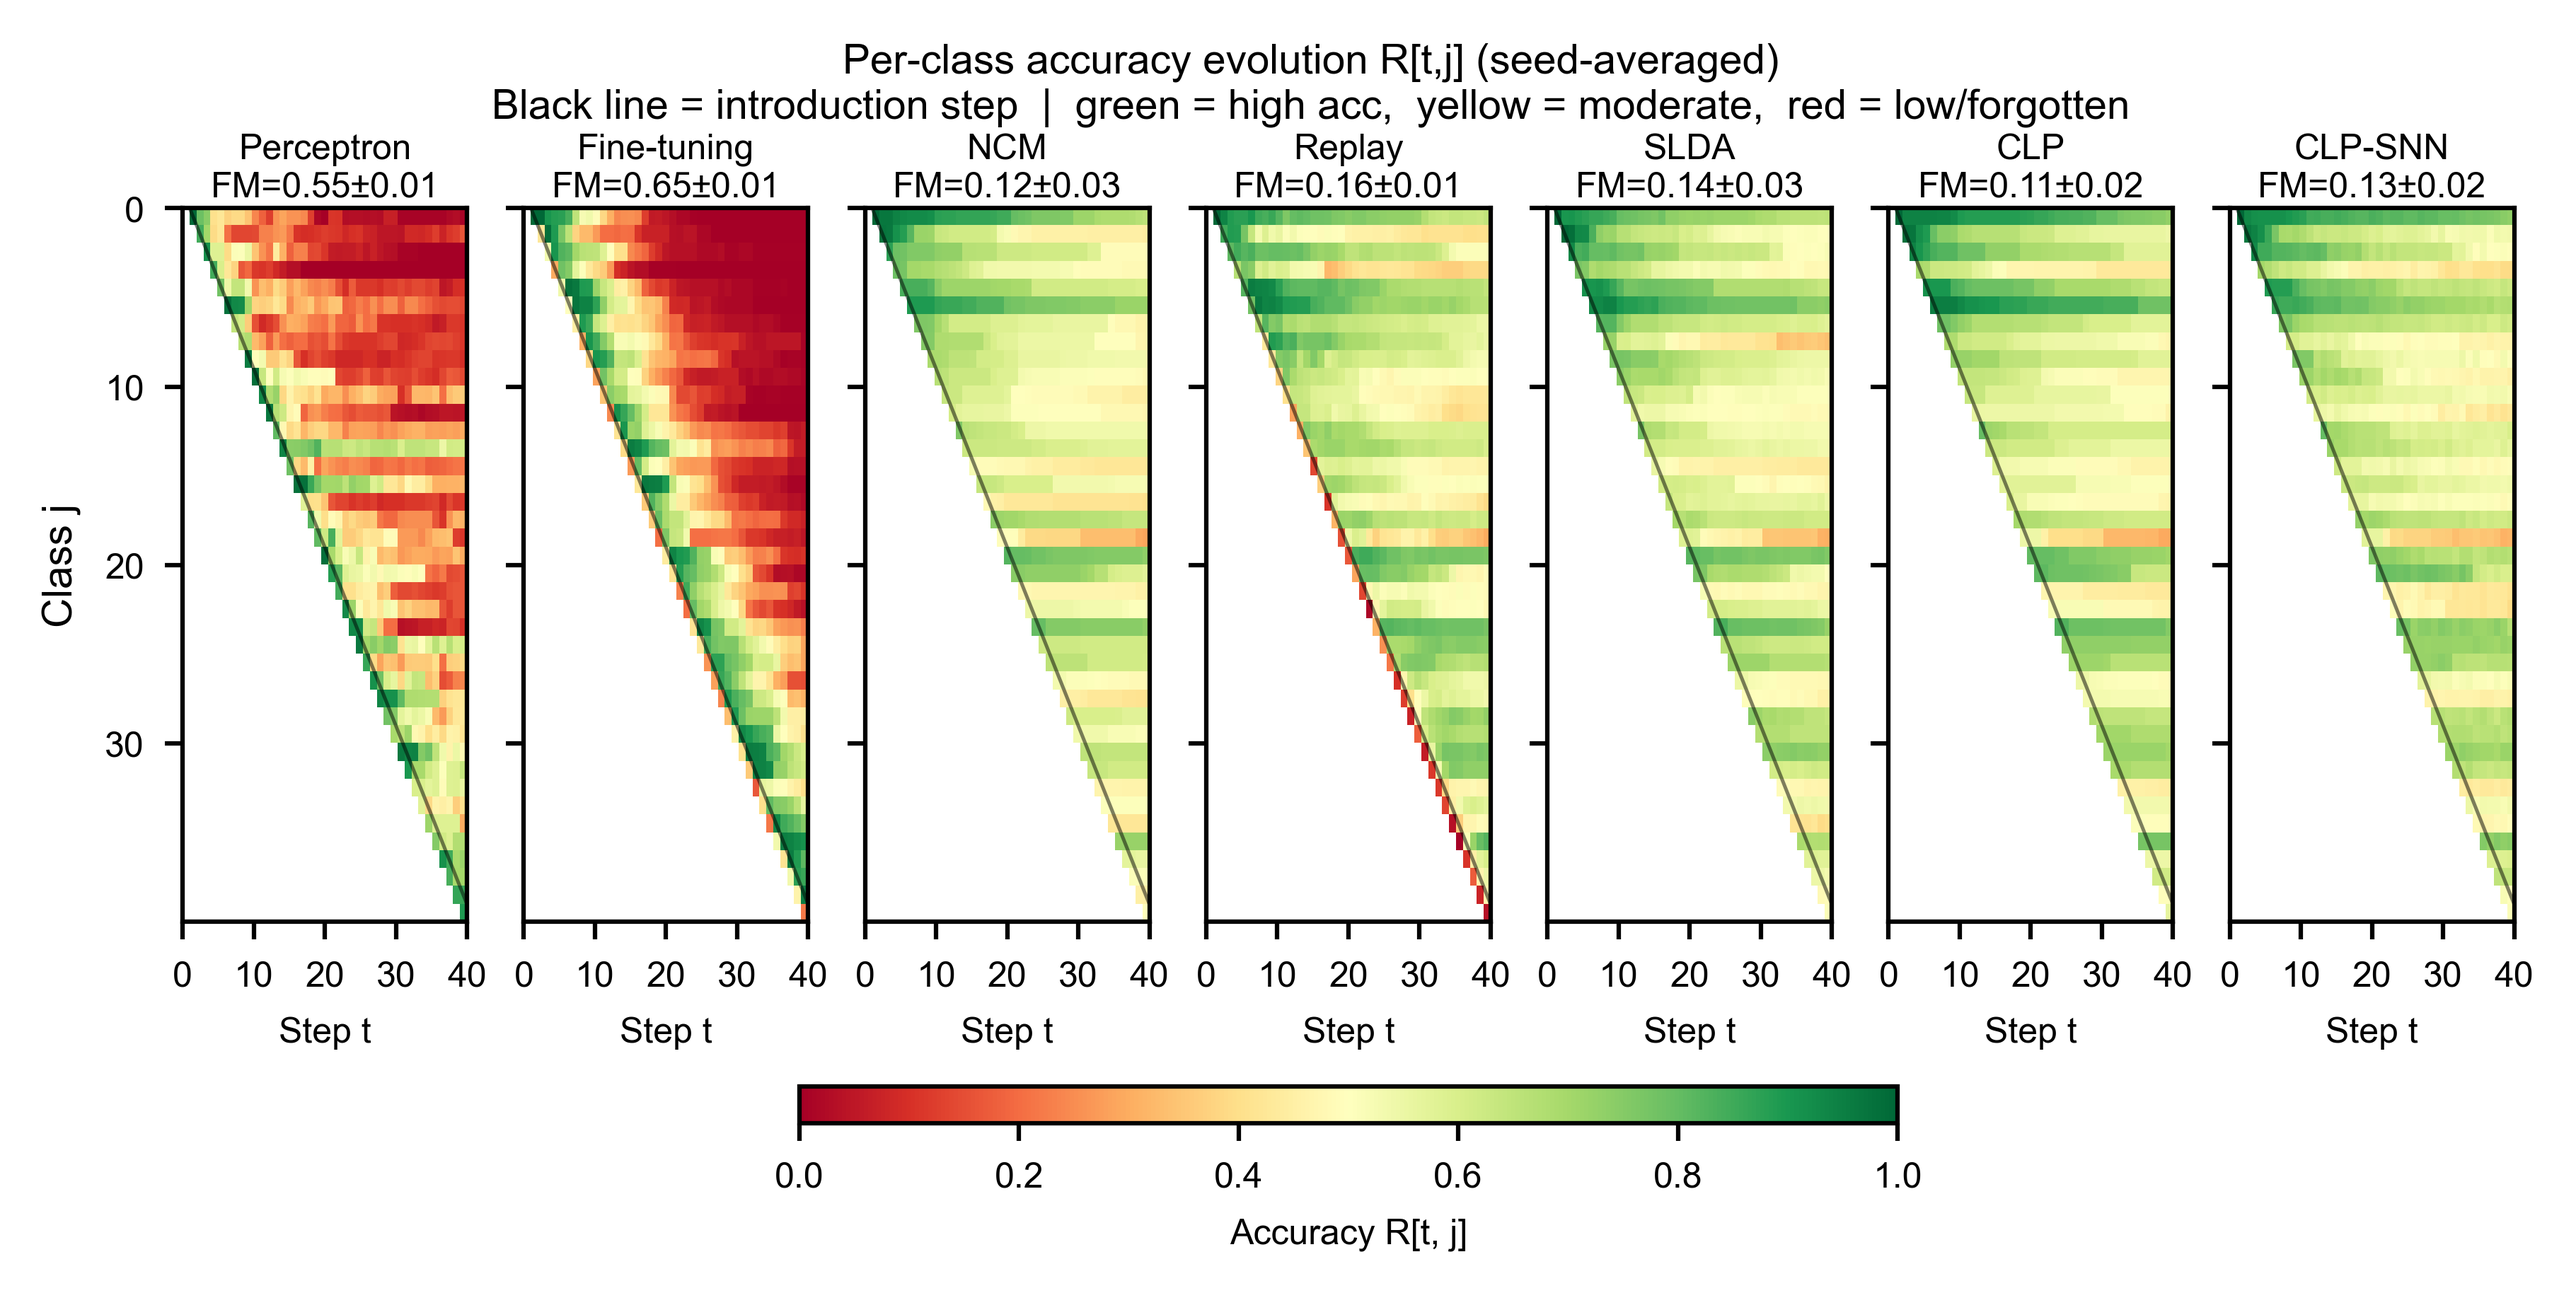
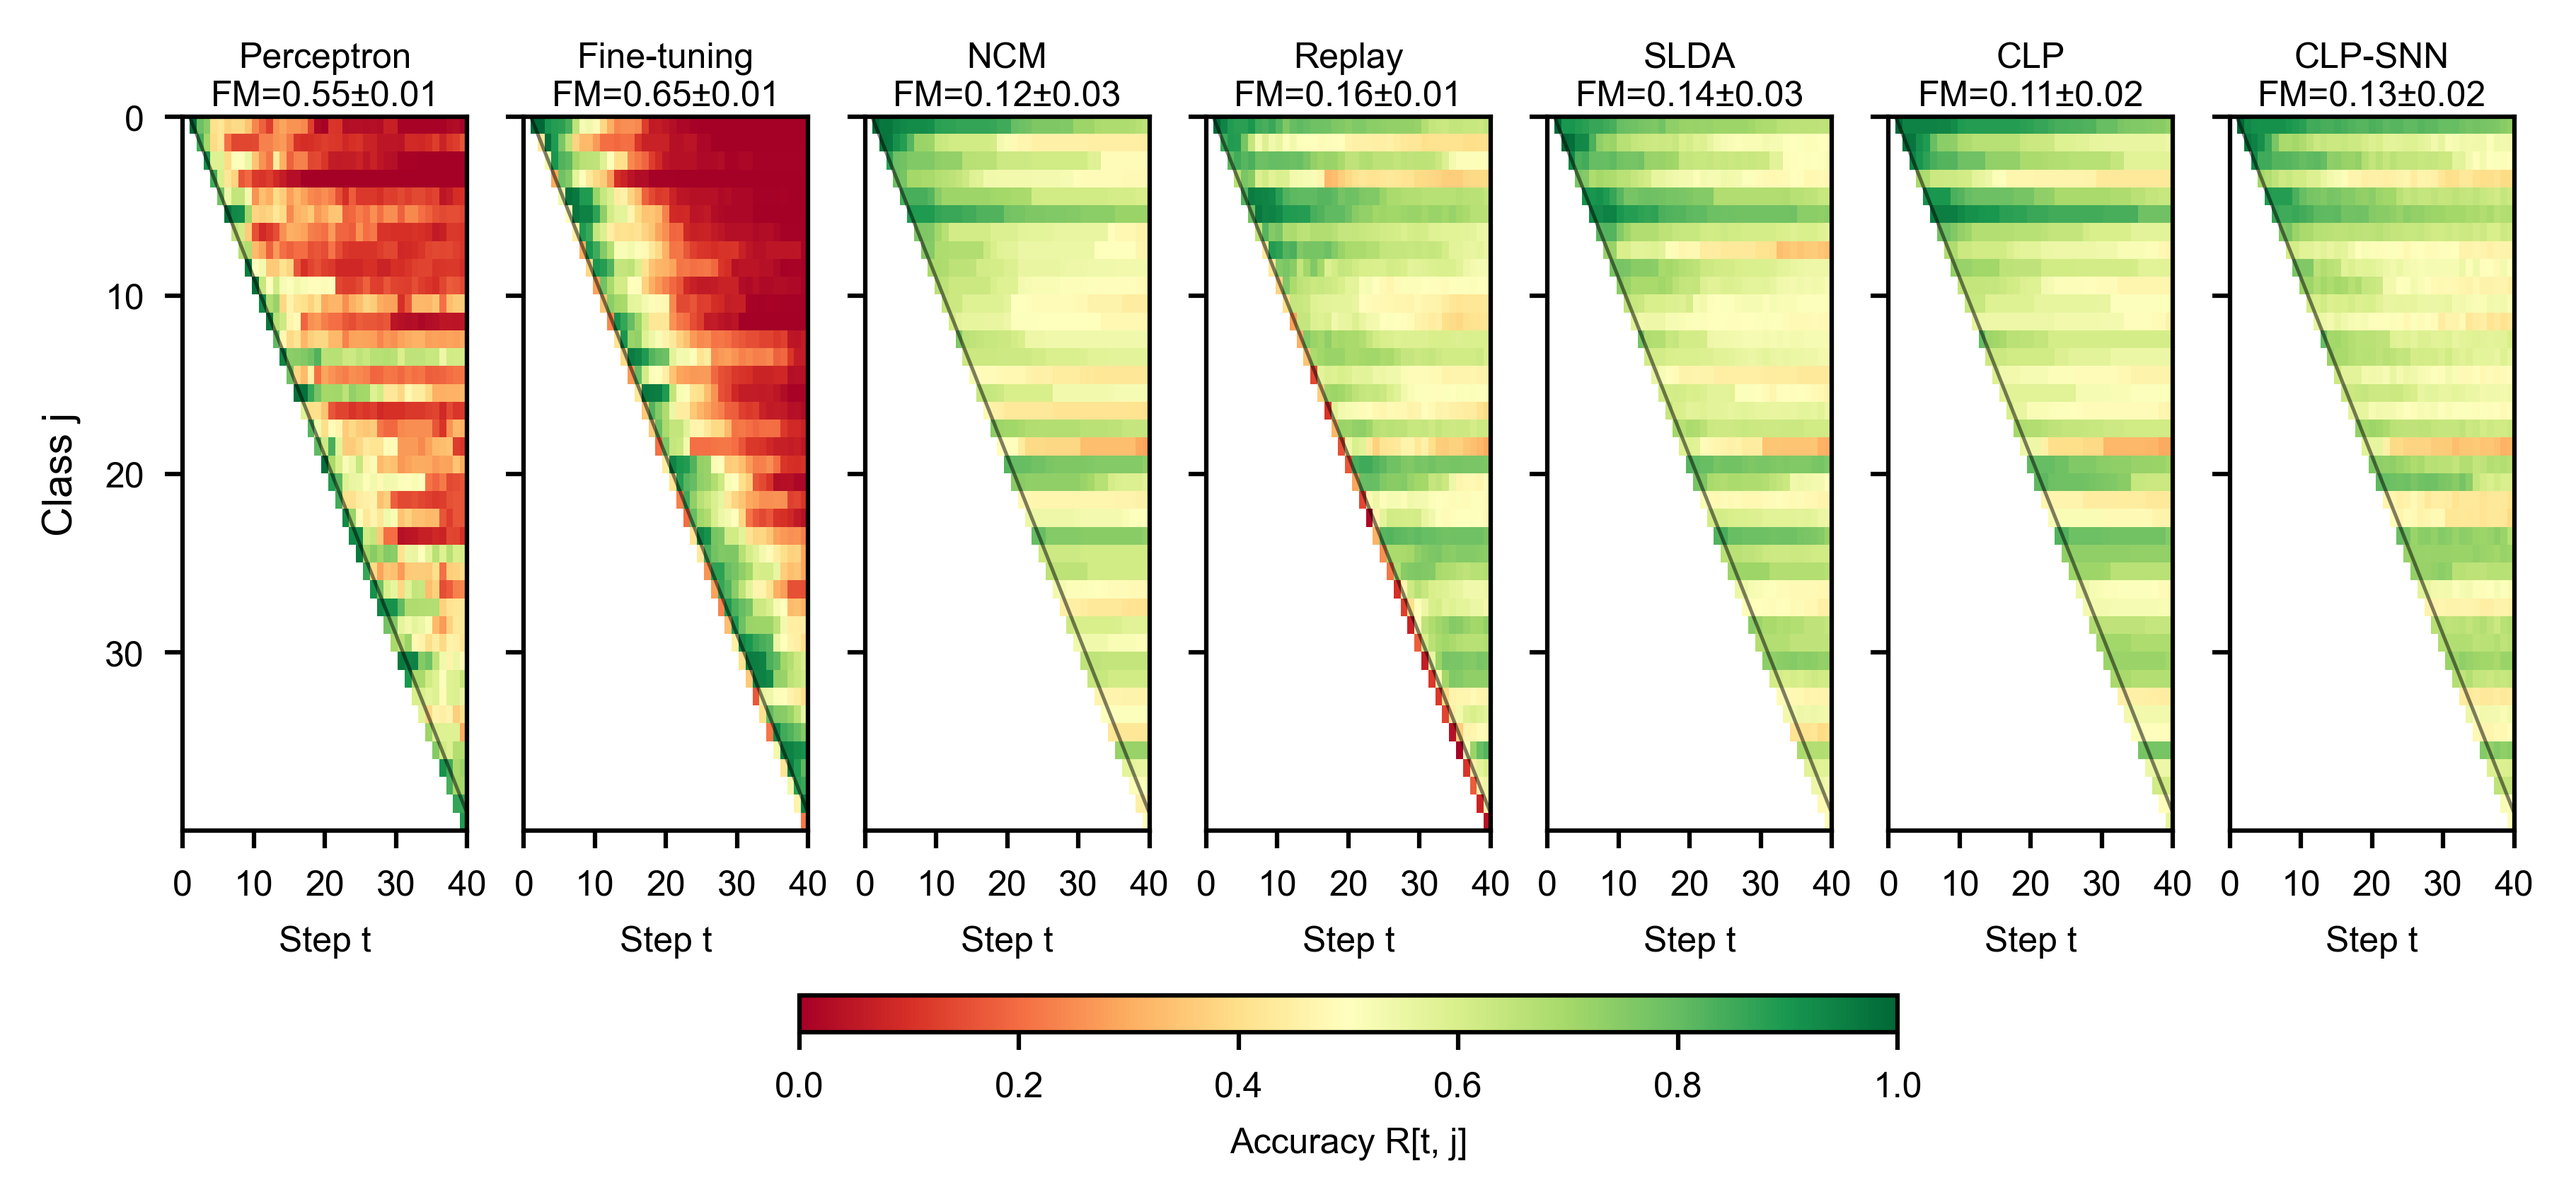
Figures for submission: Fig. 3a-b in percent, Figs. 4 and S2-S3 without suptitles, Fig. S5 cleanup
- accuracy_panels.py: accuracy in % (as Fig. 3c-e), sentence-case axis labels
- forgetting_experiments_1shot.py: Fig. 4 heatmap without the explanatory suptitle
- self_norm_analysis.py: no code-parameter suptitle; OpenLORIS spelling
- sigma_sensitivity_analysis.py: the cluster seeds used hash(sigma_label) % 100, which Python
  randomises per process; fixed offsets {23, 70, 8, 5} reproduce the published Fig. S3 curve
  for curve. No suptitle; output to images/.
- slda_regularization_equivalence.py: percent axes, bold panel letters, Reference / Rank-one
  legends placed clear of the curves
All replotted from cached or deterministic results; plotted values unchanged.

diff --git a/experiments/slda_regularization_equivalence.py b/experiments/slda_regularization_equivalence.py
@@ -197,6 +197,10 @@ def run_25shot(clf, X_tr, y_tr, checkpoints, X_test, y_test):
 
 # ── Supplementary panel ───────────────────────────────────────────────────────
 
+# Legend names as in the Supplementary Fig. S5 caption
+MODEL_LABELS = {"Hayes-SLDA": "Reference", "RankOne-SLDA": "Rank-one"}
+
+
 def draw_panel(lams, accs_, best_lambda, curves, protocols, models, images_dir):
     """Panel (a): lambda sweep on the held-out order; (b), (c): accuracy
     trajectories of both parameterizations under the paper protocols."""
@@ -205,18 +209,19 @@ def draw_panel(lams, accs_, best_lambda, curves, protocols, models, images_dir):
     axes = np.atleast_1d(axes)
 
     ax = axes[0]
+    accs_ = [a * 100 for a in accs_]  # percent, as in the caption and Table 1
     ax.semilogx(lams, accs_, "o-", color="tab:blue", markersize=3)
     ax.axvline(best_lambda, color="tab:red", linestyle=":", linewidth=0.75)
     # Fixed 10-pp window: the sweep spans ~0.2 pp, and an auto-scaled axis
     # would inflate that into an apparent trend.
-    centre = round(float(np.mean(accs_)), 2)
-    ax.set_ylim(centre - 0.05, centre + 0.05)
-    spread_pp = (max(accs_) - min(accs_)) * 100
+    centre = round(float(np.mean(accs_)))
+    ax.set_ylim(centre - 5, centre + 5)
+    spread_pp = max(accs_) - min(accs_)
     ax.text(0.03, 0.95, f"spread {spread_pp:.1f} pp", transform=ax.transAxes,
             ha="left", va="top")
     ax.set_xlabel(r"ridge $\lambda$")
-    ax.set_ylabel("Final accuracy (held-out order)")
-    ax.set_title("(a) $\\lambda$ selection")
+    ax.set_ylabel("Final accuracy (%)")
+    ax.set_title("$\\lambda$ selection (held-out order)")
 
     for k, protocol in enumerate(protocols):
         ax = axes[1 + k]
@@ -224,18 +229,21 @@ def draw_panel(lams, accs_, best_lambda, curves, protocols, models, images_dir):
         t = np.arange(1, n_ck + 1)
         for m, color, ls in zip(models, ["tab:orange", "tab:blue"],
                                 ["-", "--"]):
-            mean = curves[(protocol, m)].mean(axis=1)
-            std = curves[(protocol, m)].std(axis=1)
-            ax.plot(t, mean, ls, color=color, label=f"{m}: "
-                    f"{mean[-1]*100:.1f}$\\pm${std[-1]*100:.1f}%")
+            mean = curves[(protocol, m)].mean(axis=1) * 100
+            std = curves[(protocol, m)].std(axis=1) * 100
+            ax.plot(t, mean, ls, color=color, label=f"{MODEL_LABELS[m]}: "
+                    f"{mean[-1]:.1f}$\\pm${std[-1]:.1f}%")
             ax.fill_between(t, mean - std, mean + std, color=color, alpha=0.15)
-        ax.set_xlabel("Classes seen" if protocol == "1shot"
-                      else "Instance round")
-        ax.set_ylabel("Accuracy")
-        ax.set_title(f"({chr(98 + k)}) {protocol} protocol")
-        ax.legend(frameon=False, loc="lower right")
+        ax.set_xlabel("Classes seen" if protocol == "1shot" else "Shots seen")
+        ax.set_ylabel("Accuracy (%)")
+        ax.set_title("1-shot protocol" if protocol == "1shot" else "25-shot protocol")
+        # Legend where the curves are not: top right for the falling 1-shot curves
+        ax.legend(frameon=False, loc="upper right" if protocol == "1shot" else "lower right")
 
     plt.tight_layout()
+    for ax, letter in zip(axes, "abc"):
+        bbox = ax.get_position()
+        fig.text(bbox.x0 - 0.06, bbox.y1 + 0.04, letter, fontsize=9, fontweight="bold", va="bottom")
     for ext in (("pdf", "png") if SAVE_PDF else ("png",)):
         for out_dir in (RESULTS_DIR, images_dir):
             plt.savefig(out_dir / f"ea_equivalence_panel.{ext}",

diff --git a/analysis/sigma_sensitivity_analysis.py b/analysis/sigma_sensitivity_analysis.py
@@ -11,6 +11,8 @@ tracking: similarity to center, norm evolution, and raw dot products.
 This demonstrates how quantization variants respond to different cluster tightness.
 """
 
+from pathlib import Path
+
 import numpy as np
 import matplotlib.pyplot as plt
 import matplotlib.cm as cm
@@ -201,6 +203,13 @@ SIGMAS = {
     "Large":      0.100,   # Large spread
 }
 
+# Per-sigma seed offsets. The original code used hash(sigma_label) % 100, which Python
+# randomises per process; these are the values that reproduce the published Supplementary
+# Fig. S3 curve for curve.
+CLUSTER_SEED_OFFSET = {"Very Tight": 23, "Tight": 70, "Medium": 8, "Large": 5}
+
+IMAGES_DIR = Path(__file__).resolve().parent.parent / "images"
+
 # ── Main execution ────────────────────────────────────────────────────────────
 
 print("=" * 80)
@@ -216,7 +225,7 @@ for dim in DIMENSIONS:
         print(f"\n[Dimension {dim}, Sigma: {sigma_label} ({sigma:.3f})]", end=" ", flush=True)
         
         # Generate cluster
-        rng = np.random.default_rng(SEED + dim + hash(sigma_label) % 100)
+        rng = np.random.default_rng(SEED + dim + CLUSTER_SEED_OFFSET[sigma_label])
         init_centre = rng.standard_normal(dim)
         init_centre /= np.linalg.norm(init_centre)
         samples = init_centre + sigma * rng.standard_normal((N_SYNTH + 1, dim))
@@ -374,10 +383,10 @@ for col_idx, dim in enumerate(DIMENSIONS):
     ax.set_ylabel("w · center", fontsize=7)
     ax.grid(True, alpha=0.2, linewidth=0.5)
 
-fig.suptitle("Sigma Sensitivity Analysis: Synthetic Data", fontsize=13, fontweight="bold")
+# No suptitle: the caption names the analysis
 plt.tight_layout(pad=1.0)
-plt.savefig("sigma_sensitivity_analysis.pdf", format="pdf", bbox_inches="tight", dpi=600)
-plt.savefig("sigma_sensitivity_analysis.png", format="png", bbox_inches="tight", dpi=600)
+plt.savefig(IMAGES_DIR / "sigma_sensitivity_analysis.pdf", format="pdf", bbox_inches="tight", dpi=600)
+plt.savefig(IMAGES_DIR / "sigma_sensitivity_analysis.png", format="png", bbox_inches="tight", dpi=600)
 print("\n[OK] Saved: sigma_sensitivity_analysis.pdf (7.087 inch width)")
 
 plt.show()

diff --git a/analysis/accuracy_panels.py b/analysis/accuracy_panels.py
@@ -87,24 +87,24 @@ def plot():
     fig, (ax1, ax2) = plt.subplots(figsize=(7.087, 3.54), ncols=2, nrows=1)
     fig.patch.set_alpha(0.0)
 
-    m1 = acc1.mean(axis=2)[1:]                      # steps 2..40
+    m1 = 100 * acc1.mean(axis=2)[1:]                # steps 2..40, percent as in Fig. 3c-d
     t1 = np.arange(2, 41)
-    m25 = np.vstack([np.zeros((1, acc25.shape[1])), acc25.mean(axis=2)])  # shot 0..25
+    m25 = 100 * np.vstack([np.zeros((1, acc25.shape[1])), acc25.mean(axis=2)])  # shot 0..25
     t25 = np.arange(0, acc25.shape[0] + 1)
 
     for i, (label, colour, ls, lw) in enumerate(STYLE):
         ax1.plot(t1, m1[:, i], color=colour, label=label, linewidth=lw, linestyle=ls, alpha=0.9)
         ax2.plot(t25, m25[:, i], color=colour, label=label, linewidth=lw, linestyle=ls, alpha=0.9)
 
-    ax1.set_xlabel("Incremental Learning Step \n (# of Classes Seen)")
-    ax1.set_ylabel("Accuracy")
-    ax1.set_ylim([0.2, 1])
+    ax1.set_xlabel("Incremental learning step\n(classes seen)")
+    ax1.set_ylabel("Accuracy (%)")
+    ax1.set_ylim([20, 100])
     ax1.set_xlim([1.8, 40.2])
     ax1.set_xticks(t1[::4])
 
-    ax2.set_xlabel("Incremental Learning Step \n (# of shots)")
-    ax2.set_ylabel("Accuracy")
-    ax2.set_ylim([0, 1])
+    ax2.set_xlabel("Incremental learning step\n(shots seen)")
+    ax2.set_ylabel("Accuracy (%)")
+    ax2.set_ylim([0, 100])
     ax2.set_xlim([0, t25[-1] + 0.1])
     ax2.set_xticks(t25[0::5])
     ax2.tick_params(axis="x", which="major", length=5, width=1, direction="in", labelsize=7)

diff --git a/analysis/self_norm_analysis.py b/analysis/self_norm_analysis.py
@@ -286,7 +286,7 @@ def main():
                 ("raw_sim_A", "raw_sim_B", "raw_sim_F")]
     row_ylims = [(0.5, 1.0), (0.8, 1.2), None]
     col_titles_synth = [f"d = {d}" for d in DIMENSIONS]
-    col_title_ol = f"OpenLoris (d=1280)"
+    col_title_ol = "OpenLORIS (d = 1280)"
 
     for row, (keys, ylim_hint, ylabel) in enumerate(zip(row_keys, row_ylims, row_labels)):
         kA, kB, kF = keys
@@ -342,11 +342,7 @@ def main():
         ax.set_ylabel(ylabel, fontsize=7)
         ax.grid(True, alpha=0.2, linewidth=0.5)
 
-    fig.suptitle(
-        "Similarity to Cluster Center, Norm & Raw Dot Product\n"
-        f"(target min_sim={TARGET_MIN_SIM}, g_inc={G_INC}, α_min={ALPHA_MIN})",
-        fontsize=7, fontweight="bold",
-    )
+    # No suptitle: the caption states what the rows show and the settings used
     plt.tight_layout(pad=0.6, h_pad=1.0, w_pad=0.5)
 
     stem = IMAGES_DIR / "self_norm_analysis"

diff --git a/experiments/forgetting_experiments_1shot.py b/experiments/forgetting_experiments_1shot.py
@@ -999,12 +999,7 @@ def plot_per_class_accuracy_heatmap(
     cbar.ax.tick_params(labelsize=6)
     cbar.set_label("Accuracy R[t, j]", fontsize=6)
 
-    fig.suptitle(
-        "Per-class accuracy evolution R[t,j] (seed-averaged)\n"
-        "Black line = introduction step  |  green = high acc,  yellow = moderate,  red = low/forgotten",
-        fontsize=7,
-        y=1.02,
-    )
+    # No suptitle: the caption (main-text Fig. 4) explains the heatmaps and the diagonal
 
     if SAVE_PDF:
         plt.savefig(IMAGES_DIR / "per_class_acc_heatmap_1shot.pdf", format="pdf", bbox_inches="tight")
